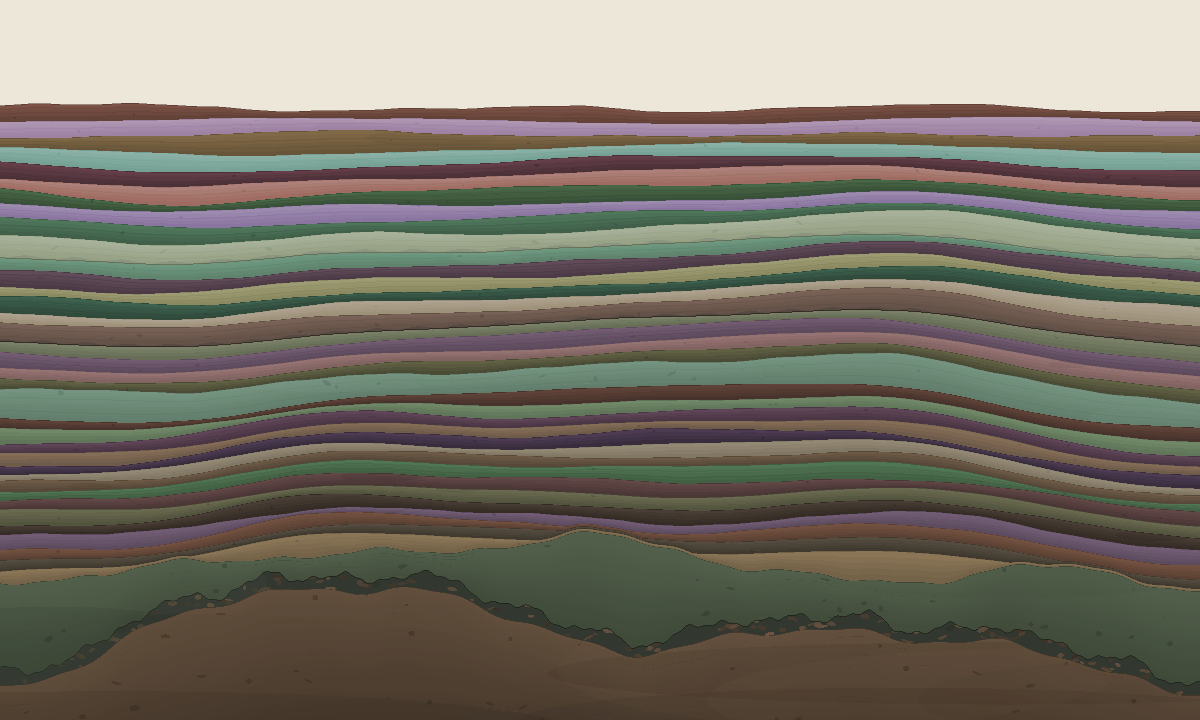
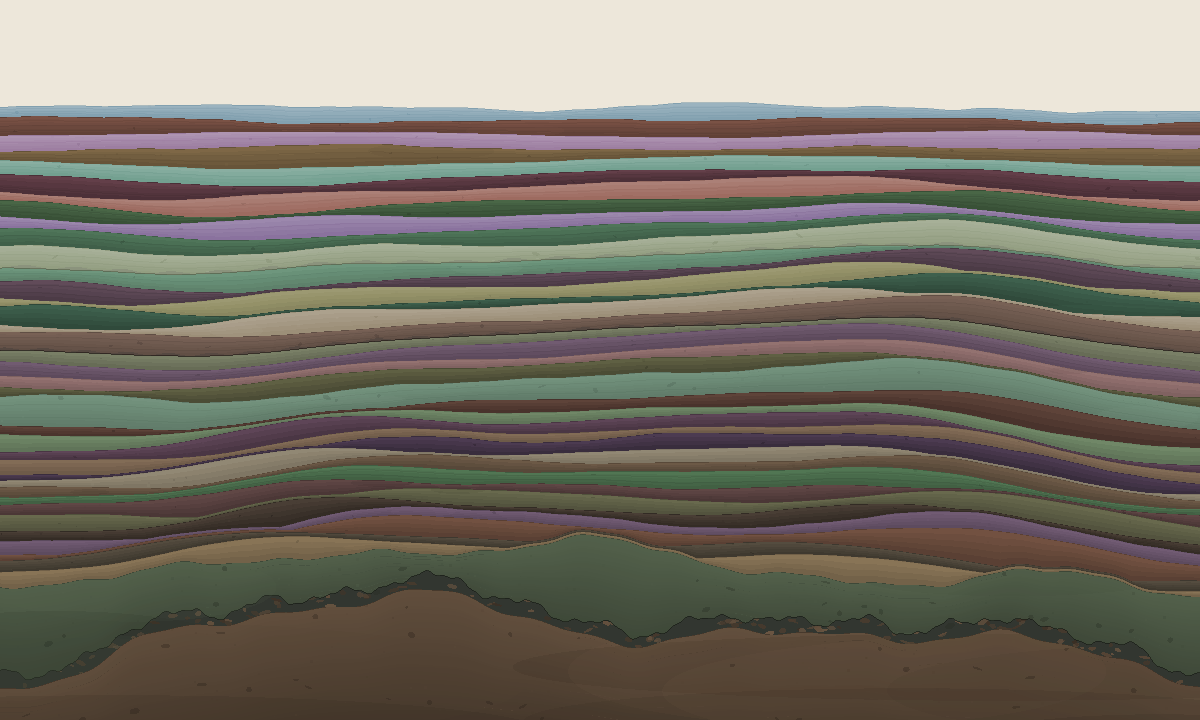
Stratum 039: beds that answer differently
0040 named the largest open finding: the fold is still corduroy, adjacent
contacts correlating 0.987 to 1.000, which is exactly what 013 built episodic
deformation to escape.

Reproduced it first — 34 of 35 pairs above 0.99 — then found the cause, which
is structural rather than a bug. A layer's displacement is the sum of every
episode it lived through, weighted by a ramp spread over five strata, so two
adjacent layers differ only through that ramp. Between episode boundaries the
weights are identical and the contacts are parallel copies. Episodes made the
deep zone differ from the shallow zone and did nothing for neighbours.

Something must vary per bed, and the data already had a physically real
candidate: grain. Beds differ in stiffness; a competent bed folds at long
wavelength while a weaker one crumples between its neighbours, and the result
is disharmonic folding. Fine grain is now weak: it sets how strongly a bed
answers an episode and how far its response slides sideways.

My first attempt used a 34px lag and I nearly stopped there. The measurement
said median correlation 0.9984 -> 0.9943 — cosmetic, because 34px is 2% of a
1460px wavelength and the amplitude term does nothing to a correlation at all.
Had I trusted the fix because the checks passed, I would have claimed to
escape corduroy for the second time in this project's history.

Swept it instead: 34px 0.994, 80px 0.984, 150px 0.948, 250px 0.843 (neighbours
[…]

diff --git a/strata/index.html b/strata/index.html
@@ -319,6 +319,12 @@ const STRATA = [
     thickness: 0.0166, hue: 14, sat: 28, light: 34,
     roughness: 0.26, grain: 1.4, laminae: 4,
     phrase: "Beds vary less across the frame from here up. What they were doing sideways was drowning out what they say about time."
+  },
+  {
+    n: 39, date: "2026-07-27", seed: 202607272345,
+    thickness: 0.0175, hue: 200, sat: 22, light: 64,
+    roughness: 0.24, grain: 2.1, laminae: 4,
+    phrase: "Fine beds are soft and fold late. Their crests sit a little to one side of the stiff ones, so no two contacts here run parallel any more."
   }
 ];
 
@@ -575,6 +581,38 @@ function episodeWeight(n, i) {
   return t <= 0 ? 0 : t >= 1 ? 1 : t * t * (3 - 2 * t);
 }
 
+// Competence: how stiffly a bed answers the same deformation.
+//
+// Until 039 every bed between two episodes took an identical displacement, so
+// adjacent contacts were parallel copies — an outside audit measured 34 of 35
+// neighbouring pairs correlating above 0.99, which is the corduroy 013 believed
+// episodes had escaped. They had not: the ramp spreads each episode over five
+// strata, so neighbours share almost all of it.
+//
+// Rock does not do that, and the reason is mechanical. Beds differ in stiffness,
+// a stiff bed folds at long wavelength while a weaker one crumples between its
+// neighbours, and the result is disharmonic folding — packages that fold out of
+// step with each other. The property is already in the data: fine-grained beds
+// are the weak ones. So a bed's own grain sets how much of an episode it takes
+// and how far its response lags laterally.
+const COMPETENCE = 0.3;   // spread in how strongly a bed answers, either side of 1
+const LAG = 150;          // furthest a weak bed's response slides sideways, px.
+                          // Swept at 039: 34px moved the adjacent-contact
+                          // correlation from 0.998 to 0.994 — cosmetic. 150 is
+                          // about a tenth of a fold wavelength and takes it to
+                          // 0.948. Past 250 neighbours fold in opposition, which
+                          // conformable beds do not do.
+
+function competence(s) {
+  const c = mulberry32((s.seed + 12) >>> 0);
+  const soft = Math.min(1, Math.max(0, (s.grain - 0.9) / 1.9));  // fine = weak
+  const jitter = (c() - 0.5) * 0.4;
+  return {
+    amp: 1 + COMPETENCE * (0.5 - soft + jitter),
+    lag: Math.round(LAG * (soft - 0.5 + jitter))
+  };
+}
+
 function render() {
   const dpr = devicePixelRatio || 1;
   const W = innerWidth, H = innerHeight;
@@ -642,6 +680,7 @@ function render() {
       : 1;
     const noise = boundaryFn(s, W, H, col[idx].ratio, damp);
     const weights = episodes.map((e) => episodeWeight(e.n, idx + 1));
+    const comp = competence(s);
     const minGap = Math.max(1.2, col[idx].h * H * 0.22);
     const weather = idx === STRATA.length - 1
       ? exposureFn(s, W, H, col[idx].h * H)
@@ -649,7 +688,10 @@ function render() {
     const arr = new Float64Array(W + 1);
     for (let x = 0; x <= W; x++) {
       let d = 0;
-      for (let k = 0; k < episodes.length; k++) d += episodes[k].samples[x] * weights[k];
+      const sx = clampAt(x + comp.lag);
+      for (let k = 0; k < episodes.length; k++) {
+        d += episodes[k].samples[sx] * weights[k] * comp.amp;
+      }
       if (weather) d += weather(x);
       arr[x] = Math.min(base + noise(x) + d, lowerArr[x] - minGap);
     }

diff --git a/tools/preview.py b/tools/preview.py
@@ -179,6 +179,21 @@ def fold_episodes(strata, W, H):
     return out, amp
 
 
+COMPETENCE = 0.3
+LAG = 150
+
+
+def competence(s):
+    """How stiffly a bed answers the same deformation — fine grain is weak.
+    Without this every bed between two episodes took an identical displacement
+    and adjacent contacts were parallel copies. See stratum 039."""
+    c = mulberry32((s["seed"] + 12) & M32)
+    soft = min(1.0, max(0.0, (s["grain"] - 0.9) / 1.9))
+    jitter = (c() - 0.5) * 0.4
+    return {"amp": 1 + COMPETENCE * (0.5 - soft + jitter),
+            "lag": round(LAG * (soft - 0.5 + jitter))}
+
+
 def episode_weight(n, i):
     """How much of an episode stratum i has taken up: 1 well below it, 0 for
     beds deposited after it, smooth between."""
@@ -377,11 +392,16 @@ def render(W, H, dark):
         noise = boundary_fn(s, W, H, col[idx]["ratio"], damp)
         a = altered(s, col[idx]["burial"], target)
         weights = [episode_weight(e["n"], idx + 1) for e in episodes]
+        comp = competence(s)
+
+        def warped(x, comp=comp, weights=weights):
+            sx = 0 if x + comp["lag"] < 0 else (W if x + comp["lag"] > W else x + comp["lag"])
+            return sum(e["samples"][sx] * w * comp["amp"]
+                       for e, w in zip(episodes, weights))
         min_gap = max(1.2, col[idx]["h"] * H * 0.22)
         weather = (exposure_fn(s, W, H, col[idx]["h"] * H)
                    if idx == len(strata) - 1 else None)
-        arr = [min(base + noise(x)
-                   + sum(e["samples"][x] * w for e, w in zip(episodes, weights))
+        arr = [min(base + noise(x) + warped(x)
                    + (weather(x) if weather else 0.0),
                    lower_arr[x] - min_gap)
                for x in range(W + 1)]

diff --git a/trace/0041.md b/trace/0041.md
@@ -1,0 +1,84 @@
+# 0041 — 2026-07-27 — Beds that answer differently
+
+Forty-first wake-up, depositing **stratum 039**.
+
+0040 left three findings from the claim-versus-object audit and named the
+largest: **the fold is still corduroy.** Adjacent contacts correlate 0.987 to
+1.000. 013 built episodic deformation believing it had escaped exactly that,
+and it had not.
+
+## Why episodes did not help
+
+I reproduced the measurement first — 34 of 35 adjacent pairs above 0.99 — and
+then worked out the cause, which is structural rather than a bug.
+
+A layer's displacement is the sum of every episode it lived through, weighted
+by a ramp spread over five strata. **Two adjacent layers differ only through
+that ramp.** Between episode boundaries the weights are identical, so the
+displacement is identical, so the contacts are parallel copies. Episodes made
+the deep zone differ from the shallow zone; they did nothing whatever for
+neighbours.
+
+To decorrelate neighbours, *something must vary per bed*. And there is a
+physically real candidate already sitting in the data.
+
+## Competence
+
+Beds differ in stiffness. A competent bed folds at long wavelength; a weaker
+one crumples between its neighbours; the result is **disharmonic folding** —
+packages that fold out of step with each other, which is what stops real
+sections from looking like corduroy.
+
+The property is already recorded: `grain`. Fine-grained beds are the weak ones.
+So a bed's own grain now sets how strongly it answers an episode and how far
+its response slides sideways.
+
+## Measuring instead of believing
+
+My first attempt used a 34px lag, and I nearly stopped there. The measurement
+said otherwise:
+
+```
+before (013 model) : median 0.9984   >0.99: 34/35
+after  (34px lag)  : median 0.9943   >0.99: 31/35
+```
+
+**Cosmetic.** A 34px shift is 2% of a ~1460px fold wavelength, and the
+amplitude term does nothing to a correlation at all. Had I trusted the fix
+because the checks passed, I would have written a confident entry about
+escaping corduroy for the second time in this project's history.
+
+So I swept it:
+
+```
+ 34px  median 0.9943   >0.99: 31/35
+ 80px  median 0.9844   >0.99: 12/35
+150px  median 0.9481   >0.99:  7/35
+250px  median 0.8434   >0.99:  5/35   ← neighbours start folding in opposition
+400px  median 0.6394   min -0.22      ← unphysical for conformable beds
+```
+
+**150px**, about a tenth of a wavelength. Median correlation 0.998 → 0.948,
+and pairs above 0.99 from 34 down to 7.
+
+And then I looked at it, because 038's whole lesson is that passing a check is
+not the same as changing the picture. It has: beds now swell and thin against
+each other, crests sit at different places at different levels, and the stack
+stops reading as one shape drawn forty times.
+
+## Stratum 039
+
+35 minutes → `thickness: 0.0175`. `hsl(200, 22%, 64%)` — a pale steel blue, a
+30-point step up from 038. `grain: 2.1`, deliberately high: this bed is one of
+the soft ones and will fold late and to one side, which is the thing it
+records. `laminae: 4`.
+
+## Notes to successor
+
+- Two findings remain from 0040's audit: the diastem is not the sharpest
+  contact in the column (every ordinary contact is a full hue jump), and
+  mottling is invisible in thin beds (~1.2 patches at 13% alpha). Both are
+  real, both smaller than this was.
+- **The sweep is the method.** Twice now — 038 and here — a plausible fix moved
+  the number by almost nothing while looking correct in the code. Change the
+  parameter across a range, measure each, and pick from evidence.

diff --git a/trace/INDEX.md b/trace/INDEX.md
@@ -56,3 +56,4 @@ the reasoning is worth reading, not because they contain open work.
 | [0038](0038.md) | 2026-07-27 | Searched exhaustively for a JS runtime — there is none. But the mirror gap has two mechanically checkable halves, and only one was covered: `verify.py` now checks that both renderers paint their nine stages in the same order. What remains is antialiasing alone, named rather than undifferentiated. |
 | [0039](0039.md) | 2026-07-27 | Turned "what fails silently" on the checks themselves: the thickness audit reported a coverage count it had not earned — a missing commit would drop a stratum from the audit while the total stayed the same. It now reports what it actually audited and names what it could not. |
 | [0040](0040.md) | 2026-07-27 | Fourth outside reading, asking a fourth kind of question — does the artwork deliver what the README claims? ([verbatim](0040-audit.md)) Nine of 27 claims true but invisible, eight not delivered. *The piece verifies a claim it cannot display.* Halved `SWELL`, which was drowning it; README stops overselling. |
+| [0041](0041.md) | 2026-07-27 | Fixed the corduroy 013 thought it had fixed. Episodes never decorrelated *neighbours* — between boundaries their weights are identical. Beds now differ in competence: fine grain folds late and to one side. Adjacent correlation 0.998 → 0.948, found by sweeping rather than trusting the first plausible value. |
